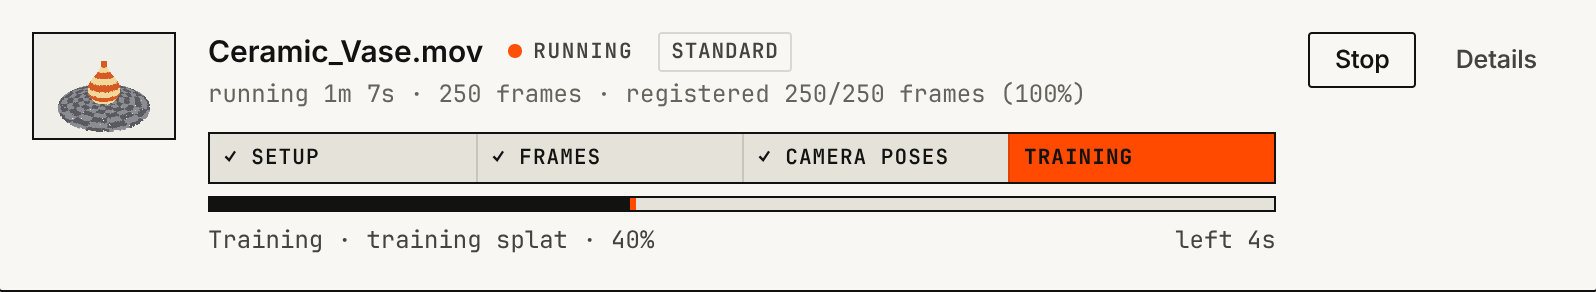
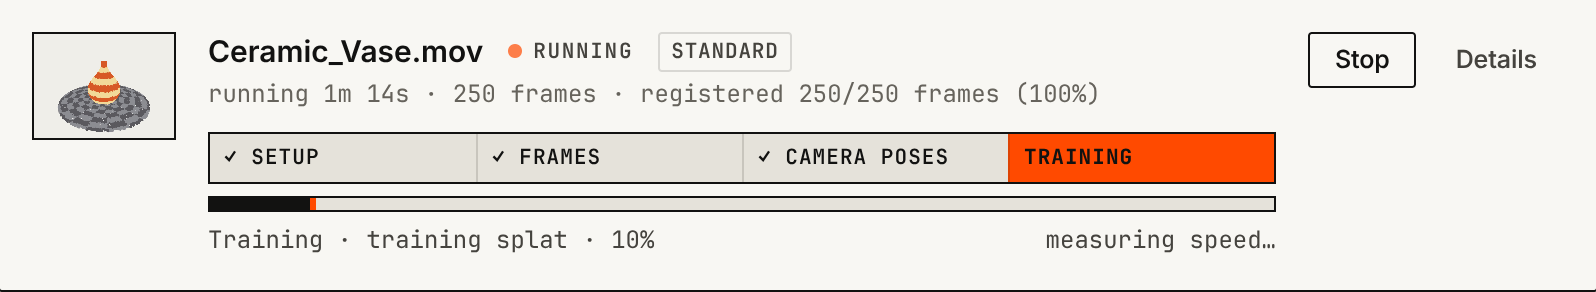
Compare: turn each model on its own
A bar under each model's name turns only that model (15° left/right,
Flip, Tilt 90°, Reset). "Turn model" makes dragging in that view turn
the model around its own centre instead of moving the camera (Alt/Option
+ drag too). Cameras stay linked and keep their view of each model.
"Save view" stores both orientations under the viewer's keys, and the
export already carries them.

Claude-Session: https://claude.ai/code/session_01Qk8nnEwKWMaUUSz1L1Yyf8

diff --git a/src/splat_studio/static/compare.html b/src/splat_studio/static/compare.html
@@ -20,6 +20,11 @@
   .pane-label b { white-space: nowrap; overflow: hidden; text-overflow: ellipsis; }
   .pane-label .slot { flex: none; width: 26px; height: 26px; display: grid; place-items: center; background: var(--signal); color: var(--on-signal);
     font: 700 12px/1 var(--font-mono); }
+  .model-bar { position: absolute; top: 70px; left: var(--s-3); z-index: 2; max-width: calc(100% - 24px); flex-wrap: wrap; }
+  .model-bar button { padding: 0 10px; }
+  .pane.turning canvas { cursor: grab; }
+  .pane.turning canvas:active { cursor: grabbing; }
+  @media (max-width: 760px) { .model-bar { top: 64px; } }
   .loading { position: absolute; inset: 0; display: grid; place-items: center; pointer-events: none; z-index: 1; }
   .loading .hud-chip { min-width: 220px; }
   .err { color: #ff8a80; max-width: 420px; white-space: pre-wrap; font: var(--text-meta); }
@@ -46,8 +51,22 @@
 <body class="hud">
 <div id="panes">
   <div class="pane" id="pane0" data-testid="pane-a"><div class="pane-label"><span class="slot" aria-hidden="true">A</span><div class="hud-chip pad"><b class="title hud-title" data-i18n="viewer.loading">Loading…</b><span class="stats hud-sub">&nbsp;</span></div></div>
+    <div class="hud-chip hud-bar model-bar" data-testid="model-bar-a" data-i18n-title="compare.model.title">
+    <button class="turn" data-testid="turn-a" data-i18n="compare.turn" data-i18n-title="compare.turn.title">Turn model</button>
+    <button class="left" data-i18n="compare.left" data-i18n-title="compare.left.title">↺ 15°</button>
+    <button class="right" data-i18n="compare.right" data-i18n-title="compare.right.title">↻ 15°</button>
+    <button class="flip hide-sm" data-i18n="viewer.flip">Flip</button>
+    <button class="tilt hide-sm" data-i18n="viewer.tilt">Tilt 90°</button>
+    <button class="orig" data-testid="orig-a" data-i18n="compare.orig" data-i18n-title="compare.orig.title">Reset</button></div>
     <div class="loading"><div class="hud-chip pad"><div class="msg hud-title" data-i18n="viewer.loading">Loading splat…</div><div class="progress"><i></i></div></div></div></div>
   <div class="pane" id="pane1" data-testid="pane-b"><div class="pane-label"><span class="slot" aria-hidden="true">B</span><div class="hud-chip pad"><b class="title hud-title" data-i18n="viewer.loading">Loading…</b><span class="stats hud-sub">&nbsp;</span></div></div>
+    <div class="hud-chip hud-bar model-bar" data-testid="model-bar-b" data-i18n-title="compare.model.title">
+    <button class="turn" data-testid="turn-b" data-i18n="compare.turn" data-i18n-title="compare.turn.title">Turn model</button>
+    <button class="left" data-i18n="compare.left" data-i18n-title="compare.left.title">↺ 15°</button>
+    <button class="right" data-i18n="compare.right" data-i18n-title="compare.right.title">↻ 15°</button>
+    <button class="flip hide-sm" data-i18n="viewer.flip">Flip</button>
+    <button class="tilt hide-sm" data-i18n="viewer.tilt">Tilt 90°</button>
+    <button class="orig" data-testid="orig-b" data-i18n="compare.orig" data-i18n-title="compare.orig.title">Reset</button></div>
     <div class="loading"><div class="hud-chip pad"><div class="msg hud-title" data-i18n="viewer.loading">Loading splat…</div><div class="progress"><i></i></div></div></div></div>
 </div>
 
@@ -65,6 +84,7 @@
   </div>
   <div class="hud-chip hud-bar app-only">
     <a class="back" href="/"><button data-i18n="viewer.studio">← Studio</button></a>
+    <button id="save" data-testid="compare-save" data-i18n="viewer.save" data-i18n-title="compare.save.title">Save view</button>
     <button id="export" class="primary" data-testid="compare-export" data-i18n="viewer.export" data-i18n-title="compare.export.title">Export website</button>
   </div>
 </div>
@@ -175,8 +195,80 @@ class Pane {
     for (const ev of ["pointerdown", "wheel", "touchstart"]) {
       this.renderer.domElement.addEventListener(ev, () => { leader = this; }, { passive: true });
     }
+    this.turning = false;                      // "Turn model": dragging turns this model, not the camera
+    this.setupTurnDrag();
+    const bar = el.querySelector(".model-bar");
+    bar.querySelector(".turn").onclick = () => this.setTurning(!this.turning);
+    bar.querySelector(".left").onclick = () => this.turn(-15);
+    bar.querySelector(".right").onclick = () => this.turn(15);
+    bar.querySelector(".flip").onclick = () => this.rotateAbout(new THREE.Vector3(1, 0, 0), Math.PI);
+    bar.querySelector(".tilt").onclick = () => this.rotateAbout(new THREE.Vector3(1, 0, 0), Math.PI / 2);
+    bar.querySelector(".orig").onclick = () => this.resetOrientation();
     new ResizeObserver(() => this.resize()).observe(el);
     this.resize();
+  }
+  // ---- turning this model on its own (the camera, and the other model, stay where they are)
+  setTurning(on) {
+    this.turning = on;
+    this.el.classList.toggle("turning", on);
+    this.el.querySelector(".turn").classList.toggle("on", on);
+    this.controls.enabled = !on;
+  }
+  turn(deg) { this.rotateAbout(new THREE.Vector3(0, 1, 0), THREE.MathUtils.degToRad(deg)); }
+  // Rotate the model around its own centre by angle about a world axis.
+  rotateAbout(axis, angle, refit = true) {
+    if (!this.fit) return;
+    const q = new THREE.Quaternion().setFromAxisAngle(axis.clone().normalize(), angle);
+    const c = this.fit.center;
+    this.holder.position.sub(c).applyQuaternion(q).add(c);
+    this.holder.quaternion.premultiply(q);
+    this.holder.updateMatrixWorld(true);
+    if (refit) this.refit();
+  }
+  // Re-measure the model after it turned, keeping the camera's view of it.
+  refit() {
+    const view = this.relView();
+    this.fit = computeFit(this.mesh, this.holder);
+    this.setRelView(view);
+    this.controls.update();
+  }
+  resetOrientation() {
+    if (!this.mesh) return;
+    const view = this.relView();
+    this.holder.position.set(0, 0, 0);
+    const r = this.model.rotation;
+    if (Array.isArray(r) && r.length === 4) this.holder.quaternion.fromArray(r); else this.holder.quaternion.copy(this.defaultQuat);
+    this.holder.updateMatrixWorld(true);
+    this.fit = computeFit(this.mesh, this.holder);
+    this.setRelView(view);
+    this.controls.update();
+  }
+  setupTurnDrag() {
+    const el = this.renderer.domElement;
+    let drag = null;
+    el.addEventListener("pointerdown", (e) => {          // capture: runs before the orbit controls
+      if (!(this.turning || e.altKey) || !this.fit || e.button !== 0) return;
+      this.controls.enabled = false;
+      drag = { x: e.clientX, y: e.clientY, id: e.pointerId };
+      el.setPointerCapture(e.pointerId);
+      e.preventDefault();
+    }, { capture: true });
+    el.addEventListener("pointermove", (e) => {
+      if (!drag || e.pointerId !== drag.id) return;
+      const dx = e.clientX - drag.x, dy = e.clientY - drag.y;
+      drag.x = e.clientX; drag.y = e.clientY;
+      const right = new THREE.Vector3().setFromMatrixColumn(this.camera.matrixWorld, 0);
+      this.rotateAbout(new THREE.Vector3(0, 1, 0), dx * 0.01, false);
+      this.rotateAbout(right, dy * 0.01, false);
+    });
+    const end = (e) => {
+      if (!drag || e.pointerId !== drag.id) return;
+      drag = null;
+      this.refit();
+      this.controls.enabled = !this.turning;
+    };
+    el.addEventListener("pointerup", end);
+    el.addEventListener("pointercancel", end);
   }
   resize() {
     const w = this.el.clientWidth || 1, h = this.el.clientHeight || 1;
@@ -301,6 +393,11 @@ $("bg").onclick = () => {
   store.set("viewer:bg", d.dataset.bg); applyBackground();
 };
 $("full").onclick = () => document.fullscreenElement ? document.exitFullscreen() : document.documentElement.requestFullscreen?.();
+$("save").onclick = () => {          // same keys as the viewer, so each file opens turned the same way there
+  if (!ready()) return;
+  panes.forEach((p) => store.set("rot:" + p.model.file, p.holder.quaternion.toArray()));
+  $("save").textContent = t("viewer.saved"); setTimeout(() => ($("save").textContent = t("viewer.save")), 1500);
+};
 $("export").onclick = () => {
   const [a, b] = cfg.models, q = new URLSearchParams({ a: a.file, b: b.file, ta: a.title, tb: b.title,
     ra: JSON.stringify(panes[0].holder.quaternion.toArray()), rb: JSON.stringify(panes[1].holder.quaternion.toArray()) });
@@ -325,6 +422,8 @@ async function main() {
     ready,
     linked: () => linked,
     numSplats: (i) => panes[i].mesh?.numSplats || 0,
+    modelQuat: (i) => panes[i].holder.quaternion.toArray(),
+    turning: (i) => panes[i].turning,
     view: (i) => panes[i].relView().off.toArray(),
     orbit: (i, deg) => {
       leader = panes[i];

diff --git a/src/splat_studio/static/i18n.js b/src/splat_studio/static/i18n.js
@@ -235,6 +235,12 @@
       "compare.link": "Linked cameras", "compare.unlinked": "Separate cameras",
       "compare.link.title": "Move both models together (L)",
       "compare.swap": "Swap",
+      "compare.model.title": "This model only: the camera and the other model stay put",
+      "compare.turn": "Turn model", "compare.turn.title": "Drag in this view to turn this model only (or hold Alt/Option while dragging)",
+      "compare.left": "↺ 15°", "compare.left.title": "Turn this model 15° to the left",
+      "compare.right": "↻ 15°", "compare.right.title": "Turn this model 15° to the right",
+      "compare.orig": "Reset", "compare.orig.title": "Put this model back the way it opened",
+      "compare.save.title": "Remember how both models are turned (the viewer uses it too)",
       "compare.export.title": "Download a self-contained website comparing these two splats",
       "compare.notFound": "compare-config.json not found next to this page",
       "lib.select": "Compare", "lib.select.title": "Pick two splats to see side by side",
@@ -458,6 +464,12 @@
       "compare.link": "Câmeras ligadas", "compare.unlinked": "Câmeras separadas",
       "compare.link.title": "Mover os dois modelos juntos (L)",
       "compare.swap": "Trocar",
+      "compare.model.title": "Só este modelo: a câmera e o outro modelo ficam parados",
+      "compare.turn": "Girar modelo", "compare.turn.title": "Arraste nesta vista para girar só este modelo (ou segure Alt/Option ao arrastar)",
+      "compare.left": "↺ 15°", "compare.left.title": "Girar este modelo 15° para a esquerda",
+      "compare.right": "↻ 15°", "compare.right.title": "Girar este modelo 15° para a direita",
+      "compare.orig": "Redefinir", "compare.orig.title": "Voltar este modelo à posição em que abriu",
+      "compare.save.title": "Lembrar como os dois modelos estão girados (o visualizador também usa)",
       "compare.export.title": "Baixar um site independente comparando estes dois splats",
       "compare.notFound": "compare-config.json não encontrado ao lado desta página",
       "lib.select": "Comparar", "lib.select.title": "Escolha dois splats para ver lado a lado",

diff --git a/tests/integration/test_web_ui.py b/tests/integration/test_web_ui.py
@@ -366,6 +366,47 @@ class CompareAndBackgroundUiTest(BrowserTestCase):
         self.assertTrue(dl.value.suggested_filename.endswith("_compare.zip"))
         self.assertEqual(self.errors, [])
 
+    def test_turn_each_model_on_its_own(self):
+        self.page.set_viewport_size({"width": 1000, "height": 560})
+        self.open_studio()
+        self.import_two()
+        self.open_compare()
+        cv = "window.compareViewer"
+        q = lambda i: self.page.evaluate(f"{cv}.modelQuat({i})")
+        view = lambda i: self.page.evaluate(f"{cv}.view({i})")
+        close = lambda a, b: max(abs(x - y) for x, y in zip(a, b)) < 1e-3
+        a0, b0, cam0 = q(0), q(1), view(0)
+        bar = self.page.get_by_test_id("model-bar-a")
+        bar.locator(".right").click()
+        bar.locator(".right").click()
+        self.assertFalse(close(q(0), a0))                                  # A turned...
+        self.assertTrue(close(q(1), b0))                                   # ...B didn't
+        self.assertTrue(close(view(0), cam0))                              # and the camera stayed put
+        self.assertTrue(self.page.evaluate(f"{cv}.linked()"))              # cameras still linked
+        # drag to turn: in "Turn model" mode a drag turns the model, not the camera
+        self.page.get_by_test_id("turn-b").click()
+        self.assertTrue(self.page.evaluate(f"{cv}.turning(1)"))
+        box = self.page.get_by_test_id("pane-b").bounding_box()
+        cx, cy = box["x"] + box["width"] / 2, box["y"] + box["height"] / 2
+        cam_b = view(1)
+        self.page.mouse.move(cx, cy)
+        self.page.mouse.down()
+        self.page.mouse.move(cx + 120, cy, steps=6)
+        self.page.mouse.up()
+        self.assertFalse(close(q(1), b0))
+        self.assertTrue(close(view(1), cam_b))
+        self.page.get_by_test_id("turn-b").click()                         # back to moving the camera
+        self.assertFalse(self.page.evaluate(f"{cv}.turning(1)"))
+        # Reset puts a model back; Save view remembers both for the viewer
+        self.page.get_by_test_id("orig-b").click()
+        self.assertTrue(close(q(1), b0))
+        self.page.get_by_test_id("compare-save").click()
+        saved = self.page.evaluate("JSON.parse(localStorage.getItem('rot:imports/vase.ply'))")
+        self.assertTrue(close(saved, q(0)))
+        self.page.wait_for_timeout(600)
+        self.shot("compare-turn")
+        self.assertEqual(self.errors, [])
+
     def test_compare_stacks_on_phones(self):
         self.page.set_viewport_size({"width": 390, "height": 760})
         self.open_studio()
@@ -374,6 +415,10 @@ class CompareAndBackgroundUiTest(BrowserTestCase):
         a, b = (self.page.get_by_test_id(t).bounding_box() for t in ("pane-a", "pane-b"))
         self.assertLess(a["y"] + a["height"], b["y"] + 5)                # one above the other
         self.assertGreater(a["width"], 380)
+        bar = self.page.get_by_test_id("model-bar-b").bounding_box()      # turn controls fit in their pane
+        self.assertLessEqual(bar["x"] + bar["width"], b["x"] + b["width"])
+        self.assertGreaterEqual(bar["y"], b["y"])
+        self.shot("compare-phone")
         self.assertEqual(self.errors, [])
 
     def test_exported_comparison_site_works_standalone(self):

diff --git a/scripts/readme_screenshots.py b/scripts/readme_screenshots.py
@@ -129,6 +129,8 @@ def main():
         page.click("[data-testid=compare-open]")
         page.wait_for_function("window.compareViewer && window.compareViewer.ready()", timeout=120000)
         page.evaluate("window.compareViewer.orbit(0, 25)")
+        for _ in range(3):                                  # turn model B on its own, 45°
+            page.click("[data-testid=model-bar-b] .right")
         page.wait_for_timeout(2500)
         page.screenshot(path=str(OUT / "compare.png"), timeout=300000)
         browser.close()

diff --git a/README.md b/README.md
@@ -226,6 +226,14 @@ seen alike. **Linked cameras** toggles this (key `L`). **Export website** downlo
 comparison website that works like the single-splat one (`index.html`, `compare-config.json`,
 `model_a.ply`, `model_b.ply`, `vendor/`). Orientation and crop saved in the viewer are used.
 
+Each model can also be turned on its own, for example to face both objects the same way.
+The bar under each model's name turns only that model: **↺ 15°** and **↻ 15°** turn it left
+or right, **Flip** and **Tilt 90°** fix a model that opened upside down or on its side, and
+**Reset** puts it back. With **Turn model** on, dragging in that view turns the model instead
+of the camera (or hold Alt/Option while dragging). The cameras stay linked while you do this.
+**Save view** remembers how both models are turned, and the viewer opens them that way too;
+**Export website** keeps it in the exported comparison.
+
 ## Putting a splat on your website
 
 **Export website** (in the viewer or the library) downloads a zip:
@@ -297,7 +305,9 @@ Se o modelo ficar com **névoa** ao redor, use **Remover névoa** na biblioteca 
 visualizador; `./splat-studio inspect ARQUIVO.ply` explica a causa. Para mostrar só o objeto,
 sem mesa nem ambiente, use **Remover fundo**. Para ver dois splats lado a lado, clique em
 **Comparar** em dois splats da biblioteca: as câmeras andam juntas, e a comparação pode ser
-exportada como site.
+exportada como site. A barra embaixo do nome de cada modelo gira só aquele modelo (**↺ 15°**,
+**↻ 15°**, **Virar**, **Inclinar 90°**, **Redefinir**); com **Girar modelo** ligado, arrastar
+na vista gira o modelo em vez da câmera. **Salvar vista** lembra como os dois estão girados.
 
 ## Credits
 

diff --git a/CHANGELOG.md b/CHANGELOG.md
@@ -3,6 +3,10 @@
 ## Unreleased
 
 ### Added
+- **Turn each model on its own in the comparison.** A bar under each model's name turns only
+  that model (↺ 15°, ↻ 15°, Flip, Tilt 90°, Reset), and **Turn model** makes dragging in that
+  view turn the model instead of the camera (Alt/Option + drag works too). Cameras stay
+  linked. **Save view** remembers both orientations for the viewer, and exports keep them.
 - **Site header and footer** on the Studio page and the recording guide: a logo, navigation
   (Studio, Library, Recording guide, Docs), a GitHub link, and a footer with help links,
   bug reports and contact (GitHub issues), the version, the license and credits. Built by
